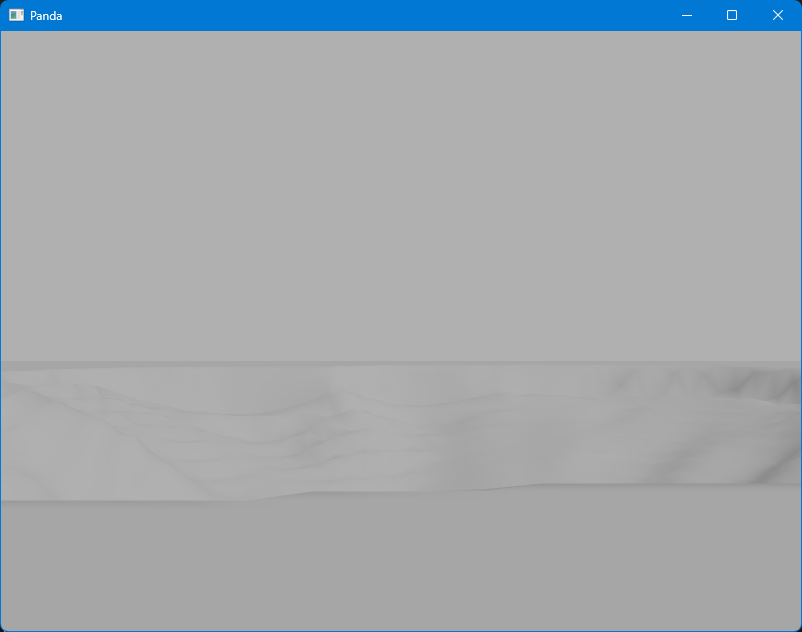
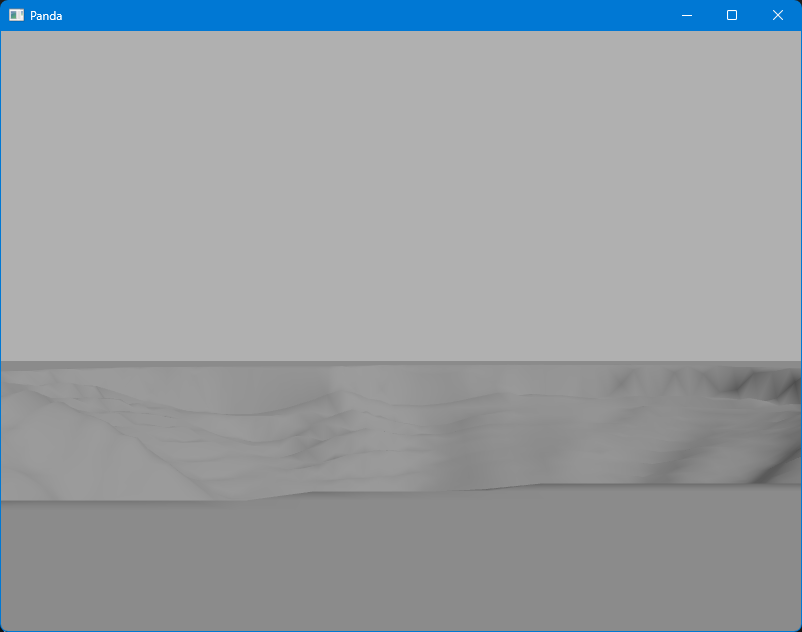
Fix ambient lighting in PBR terrain lesson 1.

diff --git a/pbr/terrain/01-scene_setup/main.py b/pbr/terrain/01-scene_setup/main.py
@@ -19,7 +19,7 @@ class TerrainDemo(ShowBase):
 
         # Setup lighting
         self.ambient_light = self.render.attach_new_node(AmbientLight("AmbientLight"))
-        self.ambient_light.node().set_color(Vec4(.2, .2, .2, 1))
+        self.ambient_light.node().set_color(Vec4(.04, .04, .04, 1))
         self.render.set_light(self.ambient_light)
 
         self.sun = self.render.attach_new_node(DirectionalLight("Sun"))

diff --git a/pbr/terrain/01-scene_setup/README.md b/pbr/terrain/01-scene_setup/README.md
@@ -59,7 +59,7 @@ simplepbr.init()
 
 # Setup lighting
 self.ambient_light = self.render.attach_new_node(AmbientLight("AmbientLight"))
-self.ambient_light.node().set_color(Vec4(.2, .2, .2, 1))
+self.ambient_light.node().set_color(Vec4(.04, .04, .04, 1))
 self.render.set_light(self.ambient_light)
 
 self.sun = self.render.attach_new_node(DirectionalLight("Sun"))
